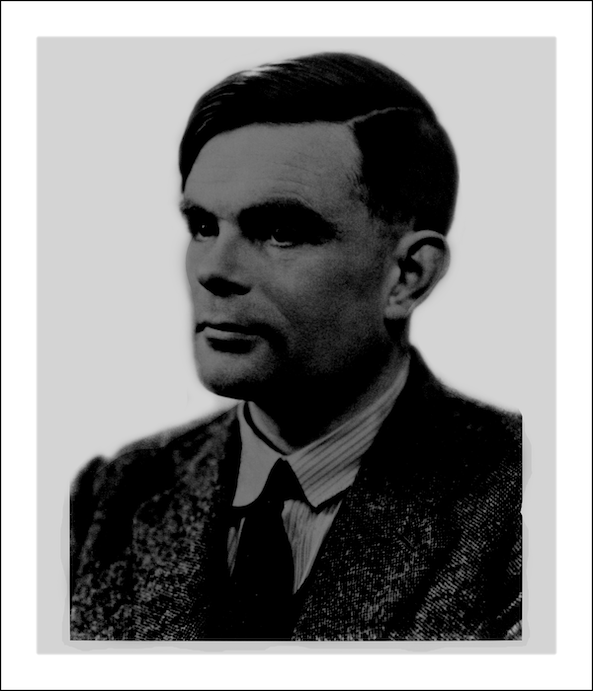
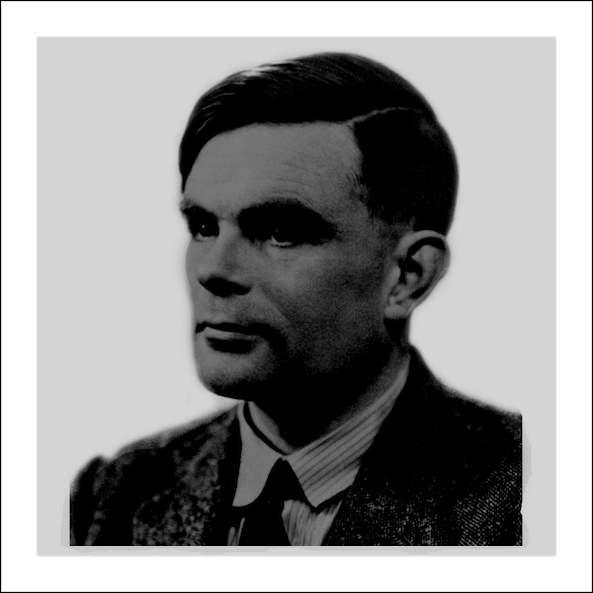
Make Alan a square

Changed region(s): [[0.0607, 0.0304, 0.941, 0.9713]]

diff --git a/_layouts/home.html b/_layouts/home.html
@@ -34,7 +34,7 @@
           </a>
           <a class='home_tile' href='art-pdes'>
             <div class='container'>
-              <img src='/assets/images/Alan.PNG' />
+              <img src='/assets/images/alan4.png' />
             </div>
             <div class='container'>
               <div class='title'>Art of PDEs</div>

diff --git a/_art-pdes/turing-face.md b/_art-pdes/turing-face.md
@@ -2,8 +2,8 @@
 layout: page
 title: Turing on Turing
 lesson_number: 10
-thumbnail: /assets/images/Alan.PNG
-extract: Even your own image!
+thumbnail: /assets/images/alan4.png
+extract: Or upload your own image!
 equation: $\pd{u}{t}=\nabla^2 u+(1-T(x,y)) - u + u^2*v$, $\pd{v}{t}=D\nabla^2v+ 1 - u^2*v$
 ---
 Functions of space can allow us to change how a PDE solution varies in space and time. Here is an example using such a function, given by $T(x,y)$, where this function represents a picture. The equations are based on the [Schnakenberg](/mathematical-biology/schnakenberg) model.
